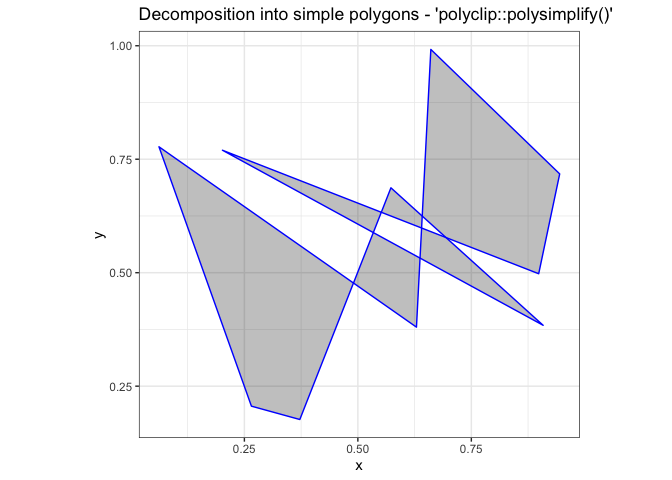
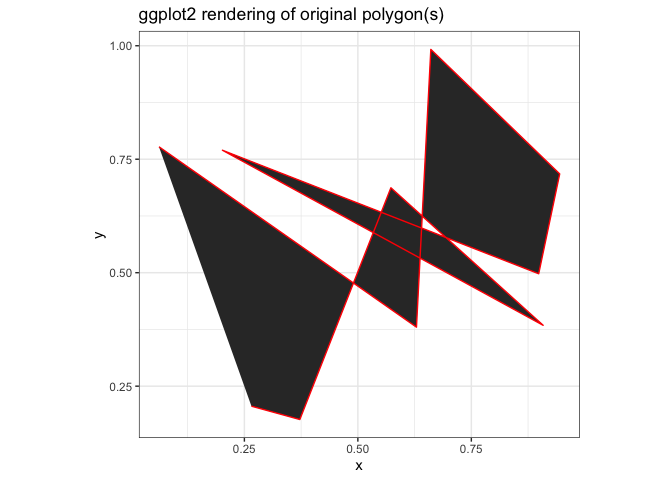
Use polyclip to handle duplicate vertices

Changed region(s): [[0.2188, 0.0938, 0.8438, 0.875], [0.1875, 0.0, 0.9062, 0.0625], [0.3438, 0.3125, 0.375, 0.3438]]

diff --git a/README.md b/README.md
@@ -198,6 +198,78 @@ ggplot(triangles_df) +
 
 <img src="man/figures/README-unnamed-chunk-7-1.png" width="60%" />
 
+## Polygon with duplicated vertex
+
+This happens sometimes with `ggplot2::geom_density()`
+
+#### ggplot
+
+``` r
+#~~~~~~~~~~~~~~~~~~~~~~~~~~~~~~~~~~~~~~~~~~~~~~~~~~~~~~~~~~~~~~~~~~~~~~~~~~~~~
+# Polygon with duplicated vertex
+#~~~~~~~~~~~~~~~~~~~~~~~~~~~~~~~~~~~~~~~~~~~~~~~~~~~~~~~~~~~~~~~~~~~~~~~~~~~~~
+polygons_df <- data.frame(
+  x        = c(1, 2, 2, 1),
+  y        = c(1, 1, 2, 2),
+  group    = 1,
+  subgroup = 1
+)
+
+
+#~~~~~~~~~~~~~~~~~~~~~~~~~~~~~~~~~~~~~~~~~~~~~~~~~~~~~~~~~~~~~~~~~~~~~~~~~~~~~
+# Polygon with duplicated vertex
+#~~~~~~~~~~~~~~~~~~~~~~~~~~~~~~~~~~~~~~~~~~~~~~~~~~~~~~~~~~~~~~~~~~~~~~~~~~~~~
+polygons_df <- data.frame(
+  x        = c(0, 1, 2, 2, 1, 1),
+  y        = c(0, 1, 1, 2, 2, 1),
+  group    = 1,
+  subgroup = 1
+)
+
+
+#~~~~~~~~~~~~~~~~~~~~~~~~~~~~~~~~~~~~~~~~~~~~~~~~~~~~~~~~~~~~~~~~~~~~~~~~~~~~~
+# "Native" ggplot2 rendering
+#~~~~~~~~~~~~~~~~~~~~~~~~~~~~~~~~~~~~~~~~~~~~~~~~~~~~~~~~~~~~~~~~~~~~~~~~~~~~~
+ggplot(polygons_df) +
+  geom_polygon(aes(x, y)) +
+  geom_path(aes(x, y, group = interaction(group, subgroup)), colour = 'red') +
+  theme_bw() + 
+  coord_equal() + 
+  labs(title = "ggplot2 rendering of original polygon(s)") + 
+  xlim(0, 2) + 
+  ylim(0, 2)
+```
+
+<img src="man/figures/README-unnamed-chunk-8-1.png" width="60%" />
+
+#### triangular - (Polygon with duplicated vertex)
+
+``` r
+#~~~~~~~~~~~~~~~~~~~~~~~~~~~~~~~~~~~~~~~~~~~~~~~~~~~~~~~~~~~~~~~~~~~~~~~~~~~~~
+# Decompose into triangles
+#~~~~~~~~~~~~~~~~~~~~~~~~~~~~~~~~~~~~~~~~~~~~~~~~~~~~~~~~~~~~~~~~~~~~~~~~~~~~~
+res <- triangular::decompose(polygons_df)
+
+#~~~~~~~~~~~~~~~~~~~~~~~~~~~~~~~~~~~~~~~~~~~~~~~~~~~~~~~~~~~~~~~~~~~~~~~~~~~~~
+# Remove the triangles which are 'interior' according to the even-odd rule
+#~~~~~~~~~~~~~~~~~~~~~~~~~~~~~~~~~~~~~~~~~~~~~~~~~~~~~~~~~~~~~~~~~~~~~~~~~~~~~
+triangles_df <- res$triangles_df %>%
+  filter(interior)
+
+#~~~~~~~~~~~~~~~~~~~~~~~~~~~~~~~~~~~~~~~~~~~~~~~~~~~~~~~~~~~~~~~~~~~~~~~~~~~~~
+# Plot the `triangular` decomposition into triangles
+#~~~~~~~~~~~~~~~~~~~~~~~~~~~~~~~~~~~~~~~~~~~~~~~~~~~~~~~~~~~~~~~~~~~~~~~~~~~~~
+ggplot(triangles_df) +
+  geom_polygon(aes(x, y, group = idx), alpha = 0.3, colour = 'blue') +
+  theme_bw() + 
+  coord_equal() + 
+  labs(title = "Decomposition into simple tris with {triangular}") + 
+  xlim(0, 2) + 
+  ylim(0, 2)
+```
+
+<img src="man/figures/README-unnamed-chunk-9-1.png" width="60%" />
+
 ## Polygon from Random Points
 
   - ggplot uses the underlying graphics engine to take care of polygon
@@ -233,7 +305,7 @@ ggplot(polygons_df) +
   labs(title = "ggplot2 rendering of original polygon(s)")
 ```
 
-<img src="man/figures/README-unnamed-chunk-8-1.png" width="60%" />
+<img src="man/figures/README-unnamed-chunk-10-1.png" width="60%" />
 
 #### triangular - (Polygon from Random Points)
 
@@ -259,7 +331,7 @@ ggplot(triangles_df) +
   labs(title = "Decomposition into simple tris with {triangular}")
 ```
 
-<img src="man/figures/README-unnamed-chunk-9-1.png" width="60%" />
+<img src="man/figures/README-unnamed-chunk-11-1.png" width="60%" />
 
 #### polyclip - Polygon from Random Points
 
@@ -290,4 +362,4 @@ ggplot(simplified_df) +
   labs(title = "Decomposition into simple polygons - 'polyclip::polysimplify()'")
 ```
 
-<img src="man/figures/README-unnamed-chunk-10-1.png" width="60%" />
+<img src="man/figures/README-unnamed-chunk-12-1.png" width="60%" />

diff --git a/NEWS.md b/NEWS.md
@@ -1,3 +1,11 @@
+# triangular 0.1.3 2020-09-28
+
+* Combine `polyclip::polysimplify()` with `RTriangle::triangulate()` to now 
+  cope with:
+    * holes in polygons
+    * self intersecting polygons
+    * polygons with duplicated vertices
+
 # triangular 0.1.2 2020-09-27
 
 * Refactor: Now use `polyclip` package for point-in-polygon calculations. 
